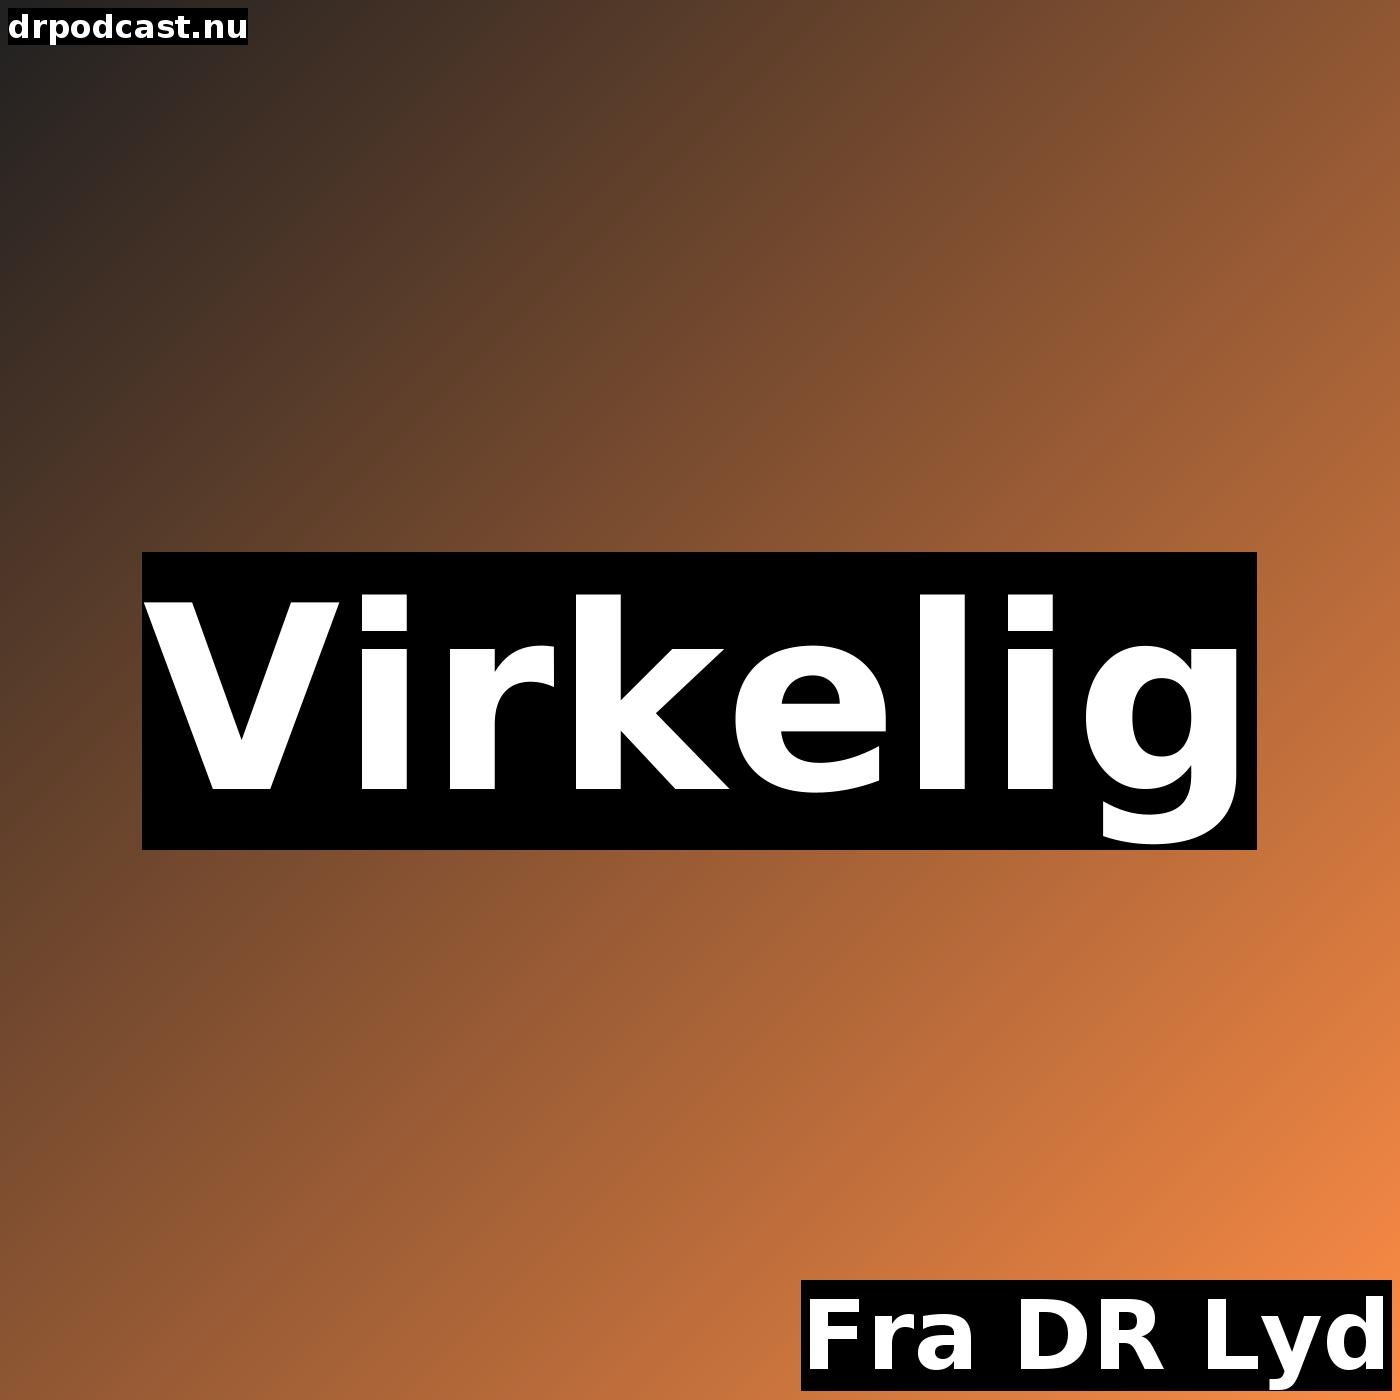
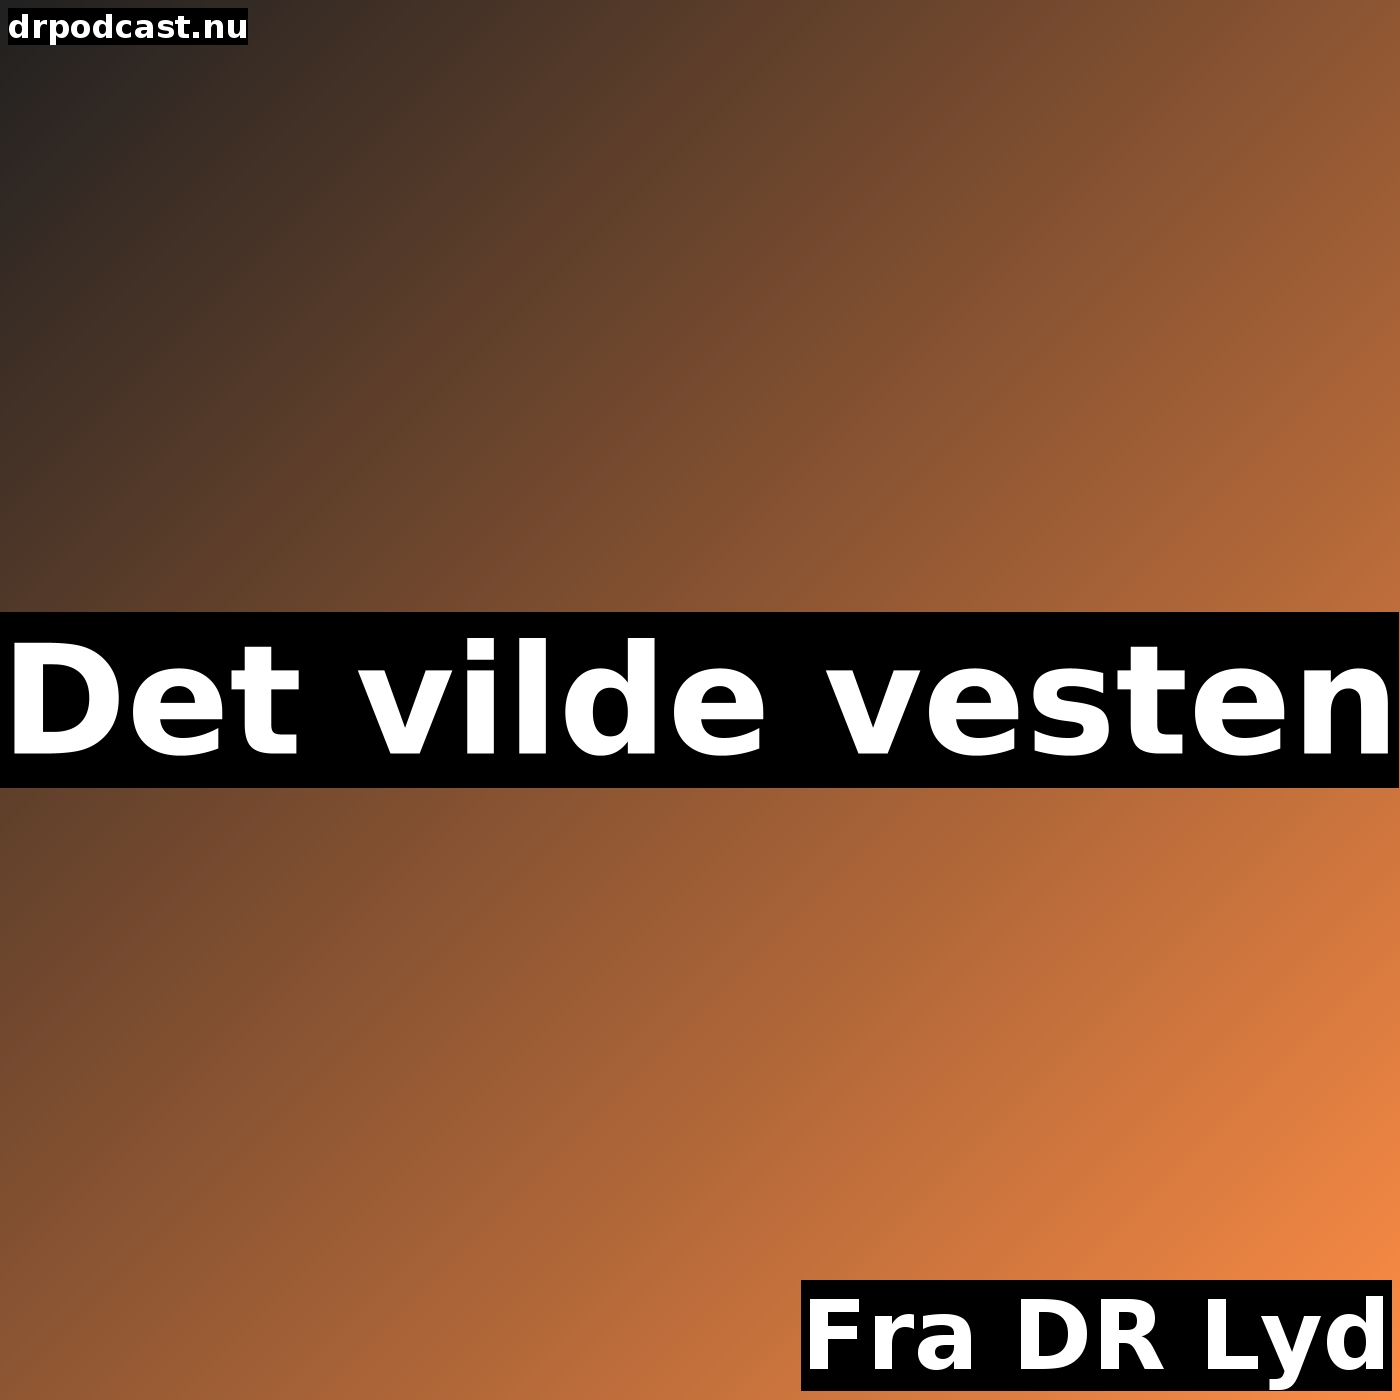
update

Changed region(s): [[0.0, 0.3686, 1.0, 0.6143]]

diff --git a/index.html b/index.html
@@ -4280,9 +4280,9 @@
             </a>
             <a href="virkelig/feed.xml">
                 <div>
-                    <img class="tile" src="virkelig/image.jpg" alt="Virkelig" />
+                    <img class="tile" src="virkelig/image.jpg" alt="Det vilde vesten" />
                     <br>
-                    <strong>Virkelig</strong>
+                    <strong>Det vilde vesten</strong>
                 </div>
             </a>
         </div>
